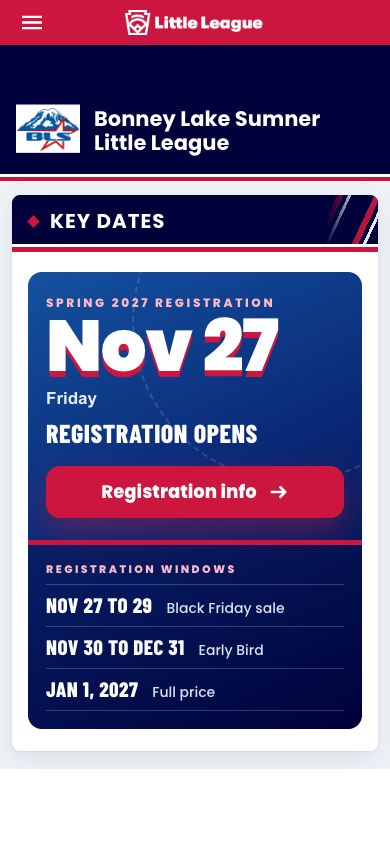
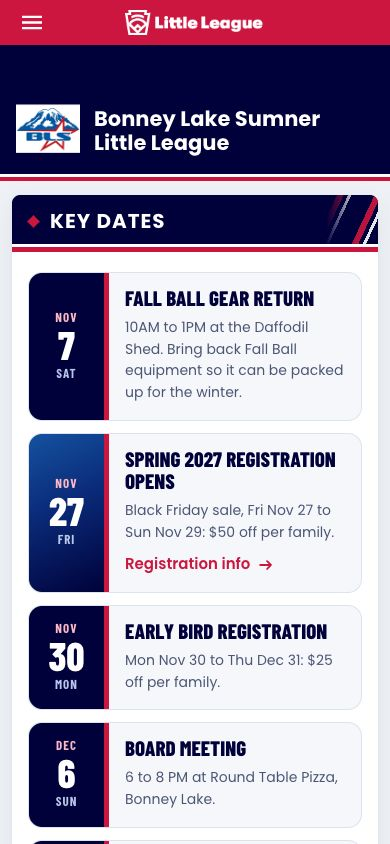
BLS preview: Calendar key dates restored (gear return, Nov 27, Early Bird, Dec 6 board meeting, Jan 1, season dates); the scrub had collapsed the page to one date
Generated with [Claude Code](https://claude.ai/code)
via [Happy](https://happy.engineering)

Claude-Session: https://claude.ai/code/session_018pH9PNFLS4TcMKKFXS6iHD

diff --git a/bls/preview/proposed/calendar.html b/bls/preview/proposed/calendar.html
@@ -994,62 +994,102 @@ window.addEventListener('OneTrustGroupsUpdated', handleGptAd);
 <h2 class="head">Key Dates</h2>
 <div class="content" id="dnn_ctr823340_ContentPane"><!-- Start_Module_823340 --><div class="DNNModuleContent ModDNNHTMLC" id="dnn_ctr823340_ModuleContent">
 <div class="Normal" id="dnn_ctr823340_HtmlModule_lblContent"><style>
-@import url('https://fonts.googleapis.com/css2?family=Barlow+Condensed:wght@600;700;800&family=Poppins:wght@400;500;600;700;800;900&display=swap');
+@import url('https://fonts.googleapis.com/css2?family=Barlow+Condensed:wght@600;700;800&family=Poppins:wght@400;500;600;700&display=swap');
 .blsx{font-family:Poppins,Arial,sans-serif !important;color:#00013a;font-size:16px;line-height:1.5;text-align:left !important;}
 .blsx *,.blsx *::before,.blsx *::after{box-sizing:border-box;}
-.blsx h2,.blsx h3,.blsx p,.blsx ol,.blsx li{margin:0 !important;padding:0;border:0;background:none;list-style:none;text-align:left !important;text-transform:none;letter-spacing:normal;box-shadow:none;}
+.blsx h3,.blsx p,.blsx ol,.blsx li{margin:0 !important;padding:0;border:0;background:none;list-style:none;text-align:left !important;text-transform:none;letter-spacing:normal;box-shadow:none;}
 .blsx a{text-decoration:none !important;}
 .blsx svg{display:block;}
 
-/* ---------- the one date that matters ---------- */
-.blsx .ku-hero{position:relative;overflow:hidden;isolation:isolate;display:grid;grid-template-columns:minmax(0,1.15fr) minmax(0,.85fr);gap:0;border-radius:18px;background:linear-gradient(155deg,#1452a0 0%,#0a2a78 45%,#00013a 100%);color:#fff;}
-.blsx .ku-hero::after{content:"";position:absolute;right:-90px;top:-110px;width:320px;height:320px;border-radius:50%;border:2px dashed rgba(255,255,255,.14);z-index:-1;}
-.blsx .ku-main{padding:34px 32px 32px 36px;}
-.blsx .ku-eyebrow{display:block;font-size:12px;font-weight:800;letter-spacing:.22em;text-transform:uppercase;color:#ffb8c6;}
-.blsx .ku-date{display:flex;flex-wrap:wrap;align-items:baseline;gap:4px 16px;margin-top:8px;}
-.blsx .ku-date b{font-family:Poppins,Arial,sans-serif;font-weight:900;font-size:clamp(60px,7.5vw,96px);line-height:.95;letter-spacing:-.02em;color:#fff;text-shadow:0 6px 0 #cd163f;white-space:nowrap;}
-.blsx .ku-date span{font-size:19px;font-weight:700;color:#e7ecff;}
-.blsx .ku-h{display:block;margin-top:6px;font-family:'Barlow Condensed','Arial Narrow',Arial,sans-serif;font-weight:800;font-size:30px;line-height:1;letter-spacing:.02em;text-transform:uppercase;color:#fff;}
-.blsx .ku-cta{display:flex;align-items:center;justify-content:center;gap:12px;width:100%;margin-top:24px;padding:17px 20px;border-radius:14px;background:#cd163f;color:#fff !important;font-weight:800;font-size:19px;line-height:1.1;text-align:center !important;box-shadow:0 14px 30px rgba(205,22,63,.38);transition:transform .15s,box-shadow .15s;}
-.blsx .ku-cta:hover{transform:translateY(-2px);box-shadow:0 18px 36px rgba(205,22,63,.45);}
-.blsx .ku-cta svg{width:20px;height:20px;flex:none;}
-.blsx .ku-side{align-self:stretch;display:flex;flex-direction:column;justify-content:center;padding:30px 32px 30px 28px;border-left:1px solid rgba(255,255,255,.18);background:rgba(0,1,58,.28);}
-.blsx .ku-side .k{font-size:11px;font-weight:800;letter-spacing:.22em;text-transform:uppercase;color:#ffb8c6;margin-bottom:6px !important;}
-.blsx .ku-win li{display:grid;grid-template-columns:auto minmax(0,1fr);align-items:baseline;column-gap:14px;padding:11px 0;border-top:1px solid rgba(255,255,255,.2);}
-.blsx .ku-win li:last-child{border-bottom:1px solid rgba(255,255,255,.2);}
-.blsx .ku-win b{font-family:'Barlow Condensed','Arial Narrow',Arial,sans-serif;font-weight:800;font-size:21px;line-height:1.05;letter-spacing:.02em;text-transform:uppercase;color:#fff;white-space:nowrap;}
-.blsx .ku-win span{font-size:14px;font-weight:500;line-height:1.3;color:#dbe2f4;}
+/* ---------- key dates ---------- */
+.blsx .ku-list{display:grid;grid-template-columns:repeat(3,minmax(0,1fr));gap:16px;}
+.blsx .ku-item{display:flex;flex-direction:column;background:#f5f7fb;border:1px solid #dde3ec;border-radius:14px;overflow:hidden;}
+.blsx .ku-date{display:flex;align-items:baseline;gap:10px;background:#00013a;color:#fff;padding:14px 18px 12px;border-bottom:5px solid #cd163f;}
+.blsx .ku-date i,.blsx .ku-date b{font-style:normal;font-family:'Barlow Condensed','Arial Narrow',Arial,sans-serif;font-weight:800;font-size:44px;line-height:.9;text-transform:uppercase;color:#fff;white-space:nowrap;}
+.blsx .ku-date span{font-family:'Barlow Condensed','Arial Narrow',Arial,sans-serif;font-weight:700;font-size:17px;letter-spacing:.12em;text-transform:uppercase;color:#b8c6ea;}
+.blsx .ku-hot .ku-date{background:linear-gradient(155deg,#1452a0 0%,#0a2a78 45%,#00013a 100%);}
+.blsx .ku-soon .ku-date{background:#eef2f6;border-bottom-color:#c3ccdc;}
+.blsx .ku-soon .ku-date i,.blsx .ku-soon .ku-date b{color:#00013a;}
+.blsx .ku-soon .ku-date span{color:#4b5675;}
+.blsx .ku-body{flex:1;display:flex;flex-direction:column;align-items:flex-start;padding:16px 18px 18px;}
+.blsx .ku-body h3{font-family:'Barlow Condensed','Arial Narrow',Arial,sans-serif !important;font-weight:800;font-size:24px;line-height:1.05;text-transform:uppercase;color:#00013a !important;margin-bottom:8px !important;}
+.blsx .ku-body p{font-size:15px;line-height:1.55;color:#4b5675;}
+.blsx .ku-link{margin-top:auto;padding-top:14px;display:inline-flex;align-items:center;gap:8px;font-weight:600;font-size:15px;color:#cd163f !important;}
+.blsx .ku-link svg{width:16px;height:16px;transition:transform .2s;}
+.blsx .ku-link:hover svg{transform:translateX(3px);}
+.blsx .ku-tip{margin-top:16px !important;display:flex;align-items:center;gap:10px;font-size:14px;line-height:1.45;color:#4b5675;}
+.blsx .ku-tip svg{flex:none;width:20px;height:20px;}
+.blsx .ku-tip b{color:#00013a;font-weight:600;}
 
-/* ---------- phone ---------- */
-@media (max-width:760px){
-  .blsx .ku-hero{grid-template-columns:minmax(0,1fr);border-radius:14px;}
-  .blsx .ku-main{padding:22px 18px 22px;}
-  .blsx .ku-date b{font-size:72px;}
-  .blsx .ku-date span{font-size:17px;}
-  .blsx .ku-h{font-size:26px;}
-  .blsx .ku-cta{margin-top:20px;padding:16px 16px;font-size:18px;}
-  .blsx .ku-side{padding:16px 18px 18px;border-left:0;border-top:5px solid #cd163f;}
-  .blsx .ku-win li{padding:9px 0;}
+/* ---------- tablet and phone: one date per row ---------- */
+@media (max-width:991px){
+  .blsx .ku-list{grid-template-columns:minmax(0,1fr);gap:12px;}
+  .blsx .ku-item{flex-direction:row;}
+  .blsx .ku-date{flex:none;width:96px;flex-direction:column;align-items:center;justify-content:center;gap:2px;padding:12px 6px;border-bottom:0;border-right:5px solid #cd163f;text-align:center !important;}
+  .blsx .ku-date i{font-size:15px;font-weight:700;letter-spacing:.12em;color:#ffb8c6;line-height:1.1;}
+  .blsx .ku-soon .ku-date i{color:#cd163f;}
+  .blsx .ku-soon .ku-date{border-right-color:#c3ccdc;}
+  .blsx .ku-date b{font-size:46px;}
+  .blsx .ku-date span{font-size:15px;}
+  .blsx .ku-body{padding:14px 16px 16px;}
+  .blsx .ku-body h3{font-size:21px;}
+  .blsx .ku-link{padding-top:10px;}
+}
+@media (max-width:420px){
+  .blsx .ku-date{width:80px;}
+  .blsx .ku-date b{font-size:40px;}
+  .blsx .ku-date i{font-size:13px;letter-spacing:.08em;}
+  .blsx .ku-date span{font-size:13px;letter-spacing:.08em;}
+  .blsx .ku-body p{font-size:14px;}
 }
 @media (prefers-reduced-motion:reduce){.blsx *{transition:none !important;}}
 </style>
 <div class="blsx">
-<section class="ku-hero">
-<div class="ku-main">
-<span class="ku-eyebrow">Spring 2027 registration</span>
-<h2 class="ku-date"><b>Nov 27</b><span>Friday</span></h2>
-<span class="ku-h">Registration opens</span>
-<a class="ku-cta" href="https://go.blslittleleague.org/bls/preview/proposed/registration.html">Registration info <svg aria-hidden="true" viewbox="0 0 16 16"><path d="M2 8h11M9 4l4 4-4 4" fill="none" stroke="currentColor" stroke-linecap="round" stroke-linejoin="round" stroke-width="2"></path></svg></a>
+<ol class="ku-list">
+<li class="ku-item">
+<div class="ku-date"><i>Nov</i><b>7</b><span>Sat</span></div>
+<div class="ku-body">
+<h3>Fall Ball gear return</h3>
+<p>10AM to 1PM at the Daffodil Shed. Bring back Fall Ball equipment so it can be packed up for the winter.</p>
 </div>
-<div class="ku-side">
-<p class="k">Registration windows</p>
-<ol class="ku-win">
-<li><b>Nov 27 to 29</b><span>Black Friday sale</span></li>
-<li><b>Nov 30 to Dec 31</b><span>Early Bird</span></li>
-<li><b>Jan 1, 2027</b><span>Full price</span></li>
+</li>
+<li class="ku-item ku-hot">
+<div class="ku-date"><i>Nov</i><b>27</b><span>Fri</span></div>
+<div class="ku-body">
+<h3>Spring 2027 registration opens</h3>
+<p>Black Friday sale, Fri Nov 27 to Sun Nov 29: $50 off per family.</p>
+<a class="ku-link" href="https://go.blslittleleague.org/bls/preview/proposed/registration.html">Registration info <svg aria-hidden="true" viewbox="0 0 16 16"><path d="M2 8h11M9 4l4 4-4 4" fill="none" stroke="currentColor" stroke-linecap="round" stroke-linejoin="round" stroke-width="2"></path></svg></a>
+</div>
+</li>
+<li class="ku-item">
+<div class="ku-date"><i>Nov</i><b>30</b><span>Mon</span></div>
+<div class="ku-body">
+<h3>Early Bird registration</h3>
+<p>Mon Nov 30 to Thu Dec 31: $25 off per family.</p>
+</div>
+</li>
+<li class="ku-item">
+<div class="ku-date"><i>Dec</i><b>6</b><span>Sun</span></div>
+<div class="ku-body">
+<h3>Board meeting</h3>
+<p>6 to 8 PM at Round Table Pizza, Bonney Lake.</p>
+</div>
+</li>
+<li class="ku-item">
+<div class="ku-date"><i>Jan</i><b>1</b><span>Fri</span></div>
+<div class="ku-body">
+<h3>Full price registration</h3>
+<p>Spring 2027 registration is full price from Jan 1, 2027.</p>
+</div>
+</li>
+<li class="ku-item ku-soon">
+<div class="ku-date"><i>Spring</i><b>2027</b></div>
+<div class="ku-body">
+<h3>Season dates</h3>
+<p>Posted here as the board sets them.</p>
+</div>
+</li>
 </ol>
-</div>
-</section>
 </div>
 </div>
 <script data-cfasync="false" src="/cdn-cgi/scripts/5c5dd728/cloudflare-static/email-decode.min.js"></script><script type="text/javascript">
@@ -1175,5 +1215,5 @@ $(window).load(function(){
        } 
    </script>
 <script src="//translate.google.com/translate_a/element.js?cb=googleTranslateElementInit" type="text/javascript"></script>
-<div id="blsPreviewBar" style="position:fixed;left:0;right:0;bottom:0;z-index:2147483647;background:#00013a;padding:8px 10px calc(8px + env(safe-area-inset-bottom,0px));box-shadow:0 -4px 16px rgba(0,0,0,.35);"><div class="blsb" id="blsbBar"></div><div id="blsSwitch" style="display:flex;gap:6px;max-width:560px;margin:0 auto 6px;"><a aria-label="Previous page: Board Members" href="https://go.blslittleleague.org/bls/preview/proposed/board.html" style="flex:0 0 auto;display:flex;align-items:center;padding:0 12px;border-radius:999px;font:700 14px/1 Arial,sans-serif;text-decoration:none;color:#fff;border:1px solid rgba(255,255,255,.35);white-space:nowrap;" title="Board Members">‹ Prev</a><a href="https://go.blslittleleague.org/bls/preview/today/calendar.html" style="background:#fff;color:#00013a;flex:1;text-align:center;padding:11px 6px;border-radius:999px;font:700 15px/1 Arial,sans-serif;text-decoration:none;">Today</a><a href="https://go.blslittleleague.org/bls/preview/proposed/calendar.html" style="background:#cd163f;color:#fff;flex:1;text-align:center;padding:11px 6px;border-radius:999px;font:700 15px/1 Arial,sans-serif;text-decoration:none;">Proposed</a><a aria-label="Next page: Champions" href="https://go.blslittleleague.org/bls/preview/proposed/champions.html" style="flex:0 0 auto;display:flex;align-items:center;padding:0 12px;border-radius:999px;font:700 14px/1 Arial,sans-serif;text-decoration:none;color:#fff;border:1px solid rgba(255,255,255,.35);white-space:nowrap;" title="Champions">Next ›</a></div><div id="blsPreviewInfo" style="text-align:center;color:#c9d3f2;font:600 12px/1.3 Arial,sans-serif;">PREVIEW · Calendar · <a href="https://go.blslittleleague.org/bls/preview/#p-calendar" style="color:#fff;">All pages</a></div><div id="blsNeeds" style="text-align:center;color:#9be3b5;font:700 12px/1.6 Arial,sans-serif;">All facts in</div></div><div id="blsPreviewSpacer" style="height:96px"></div><script>window.BLSB={"base": "https://go.blslittleleague.org/bls/preview", "page": "calendar", "variant": "proposed", "index": false, "pages": {"home": {"t": "Home", "req": ["Daniel (Website) or Melissa (Information Officer), in Sports Connect: take down the site-wide announcement bar (gear return, Daffodil Shed, the first thing on every page) or set it to 'Spring 2027 registration opens Fri Nov 27'; pin the registration story first in Local News; move the 'Meet the 2026-27 BLS Board' and 'Join the Fields Committee for 2027' posts off the home feed. Site settings and news posts, not content blocks, so the preview still shows them."]}, "registration": {"t": "Registration Info", "req": ["Daniel: put the League Age page live first. The card's 'Check your league age' row and the Baseball and Softball tiles link to it."]}, "volunteer": {"t": "Volunteer Opportunities", "req": ["Daniel: finish the Spring 2027 registration setup and move volunteer sign-up onto this page. It's running today, just not shown here.", "Daniel: put the Umpires page live first. The Umpire tile links to it."]}, "corpmatch": {"t": "Corporate Match", "req": []}, "sponsorship": {"t": "Sponsorship Opportunities", "req": ["Info needed (Ashley Gauthier): the 2027 sponsor prices. The page shows 2026 prices."]}, "allstars": {"t": "Allstars", "req": ["Daniel: put the Champions page live first. The 2025 card on this page links to it."]}, "fallball": {"t": "Fall Ball", "req": []}, "coaches": {"t": "Coaches Corner", "req": ["Daniel: put the Coach Run Book page live first. The hero clipboard, the pitch count row and the Get cleared card link to it."]}, "faq": {"t": "FAQ", "req": ["Daniel: put the League Age page live first. Answer 2's button links to it.", "Daniel: put the Fields page live first. Answer 7's button links to it."]}, "health": {"t": "Health & Safety", "req": []}, "board": {"t": "Board Members", "req": []}, "calendar": {"t": "Calendar", "req": []}, "champions": {"t": "Champions", "req": []}, "fields": {"t": "Fields", "req": []}, "umpires": {"t": "Umpires", "req": []}, "runbook": {"t": "Coach Run Book", "req": ["Daniel: turn on spring 2027 coach and volunteer sign-up, with the Secretary or Information Officer.", "Daniel: put the Fields page live on blslittleleague.org first.", "Daniel: put the League Age page live first. The roster step links to it.", "Info needed (Dena Berkey): the 2027 uniform sizing steps by division."]}, "schedules": {"t": "Schedules & Scores", "req": ["Daniel: create one GameChanger league per division.", "Daniel: test that a league link opens without a GameChanger account."]}, "leagueage": {"t": "League Age", "req": ["Daniel (Website), in Sports Connect: edit menu page 1270154 (Registration > Age Charts) so it links to this League Age page and rename it League Age; change the footer quick link League Age Calculator to the same page. Both send parents to littleleague.org from every page today, the hop that lost Coach's wife.", "Daniel (Website), same pass in Sports Connect: menu page 1270164 Challenger Division (littleleague.org) to this page's Challenger box or the Registration page; 776461 Approved Bats (littleleague.org) to the FAQ once the bat rule is in answer 3; the five Health menu PDFs 776463, 776474, 776475, 776476 and 776477 (clubs.bluesombrero.com) to the /portals/50558/ paths the Health page uses."]}}};</script><script defer="" src="https://go.blslittleleague.org/bls/preview/board/board.js?v=0676cf4a4f"></script></body>
+<div id="blsPreviewBar" style="position:fixed;left:0;right:0;bottom:0;z-index:2147483647;background:#00013a;padding:8px 10px calc(8px + env(safe-area-inset-bottom,0px));box-shadow:0 -4px 16px rgba(0,0,0,.35);"><div class="blsb" id="blsbBar"></div><div id="blsSwitch" style="display:flex;gap:6px;max-width:560px;margin:0 auto 6px;"><a aria-label="Previous page: Board Members" href="https://go.blslittleleague.org/bls/preview/proposed/board.html" style="flex:0 0 auto;display:flex;align-items:center;padding:0 12px;border-radius:999px;font:700 14px/1 Arial,sans-serif;text-decoration:none;color:#fff;border:1px solid rgba(255,255,255,.35);white-space:nowrap;" title="Board Members">‹ Prev</a><a href="https://go.blslittleleague.org/bls/preview/today/calendar.html" style="background:#fff;color:#00013a;flex:1;text-align:center;padding:11px 6px;border-radius:999px;font:700 15px/1 Arial,sans-serif;text-decoration:none;">Today</a><a href="https://go.blslittleleague.org/bls/preview/proposed/calendar.html" style="background:#cd163f;color:#fff;flex:1;text-align:center;padding:11px 6px;border-radius:999px;font:700 15px/1 Arial,sans-serif;text-decoration:none;">Proposed</a><a aria-label="Next page: Champions" href="https://go.blslittleleague.org/bls/preview/proposed/champions.html" style="flex:0 0 auto;display:flex;align-items:center;padding:0 12px;border-radius:999px;font:700 14px/1 Arial,sans-serif;text-decoration:none;color:#fff;border:1px solid rgba(255,255,255,.35);white-space:nowrap;" title="Champions">Next ›</a></div><div id="blsPreviewInfo" style="text-align:center;color:#c9d3f2;font:600 12px/1.3 Arial,sans-serif;">PREVIEW · Calendar · <a href="https://go.blslittleleague.org/bls/preview/#p-calendar" style="color:#fff;">All pages</a></div><div id="blsNeeds" style="text-align:center;color:#9be3b5;font:700 12px/1.6 Arial,sans-serif;">All facts in</div></div><div id="blsPreviewSpacer" style="height:96px"></div><script>window.BLSB={"base": "https://go.blslittleleague.org/bls/preview", "page": "calendar", "variant": "proposed", "index": false, "pages": {"home": {"t": "Home", "req": ["Daniel: confirm a content block can be added above the home slideshow (Sports Connect home template).", "Daniel: after Saturday, take down the gear return bar and pin the registration post first in Local News."]}, "registration": {"t": "Registration Info", "req": ["Daniel: put the League Age page live first. The card's 'Check your league age' row and the Baseball and Softball tiles link to it.", "Daniel: confirm the 2027 division names and prices with the VPs before launch. The page mirrors Spring 2026 until then."]}, "volunteer": {"t": "Volunteer Opportunities", "req": ["Daniel: finish the Spring 2027 registration setup and move volunteer sign-up onto this page. It's running today, just not shown here.", "Daniel: put the Umpires page live first. The Umpire tile links to it."]}, "corpmatch": {"t": "Corporate Match", "req": []}, "sponsorship": {"t": "Sponsorship Opportunities", "req": ["Info needed (Ashley Gauthier): the 2027 sponsor prices. The page shows 2026 prices."]}, "allstars": {"t": "Allstars", "req": ["Daniel: put the Champions page live first. The 2025 card on this page links to it."]}, "fallball": {"t": "Fall Ball", "req": []}, "coaches": {"t": "Coaches Corner", "req": ["Daniel: put the Coach Run Book page live first. The hero clipboard, the pitch count row and the Get cleared card link to it."]}, "faq": {"t": "FAQ", "req": ["Daniel: put the League Age page live first. Answer 2's button links to it.", "Daniel: put the Fields page live first. Answer 7's button links to it."]}, "health": {"t": "Health & Safety", "req": []}, "board": {"t": "Board Members", "req": []}, "calendar": {"t": "Calendar", "req": []}, "champions": {"t": "Champions", "req": []}, "fields": {"t": "Fields", "req": []}, "umpires": {"t": "Umpires", "req": []}, "runbook": {"t": "Coach Run Book", "req": ["Daniel: turn on spring 2027 coach and volunteer sign-up, with the Secretary or Information Officer.", "Daniel: put the Fields page live on blslittleleague.org first.", "Daniel: put the League Age page live first. The roster step links to it.", "Info needed (Dena Berkey): the 2027 uniform sizing steps by division."]}, "schedules": {"t": "Schedules & Scores", "req": ["Daniel: create one GameChanger league per division.", "Daniel: test that a league link opens without a GameChanger account."]}, "leagueage": {"t": "League Age", "req": ["Daniel: point the Age Charts menu link and the footer League Age Calculator link to this page.", "Daniel: point the Challenger, Approved Bats and Health menu links to our own pages.", "Info needed (Luke Kress): which league ages play softball AA, so the softball table can show it. AA ran in 2026 (Sports Connect schedules) but the age chart only names Minors B and Minors A."]}}};</script><script defer="" src="https://go.blslittleleague.org/bls/preview/board/board.js?v=0676cf4a4f"></script></body>
 </html>

diff --git a/bls/preview/today/calendar.html b/bls/preview/today/calendar.html
@@ -1095,5 +1095,5 @@ $(window).load(function(){
        } 
    </script>
 <script src="//translate.google.com/translate_a/element.js?cb=googleTranslateElementInit" type="text/javascript"></script>
-<div id="blsPreviewBar" style="position:fixed;left:0;right:0;bottom:0;z-index:2147483647;background:#00013a;padding:8px 10px calc(8px + env(safe-area-inset-bottom,0px));box-shadow:0 -4px 16px rgba(0,0,0,.35);"><div class="blsb" id="blsbBar"></div><div id="blsSwitch" style="display:flex;gap:6px;max-width:560px;margin:0 auto 6px;"><a aria-label="Previous page: Board Members" href="https://go.blslittleleague.org/bls/preview/today/board.html" style="flex:0 0 auto;display:flex;align-items:center;padding:0 12px;border-radius:999px;font:700 14px/1 Arial,sans-serif;text-decoration:none;color:#fff;border:1px solid rgba(255,255,255,.35);white-space:nowrap;" title="Board Members">‹ Prev</a><a href="https://go.blslittleleague.org/bls/preview/today/calendar.html" style="background:#cd163f;color:#fff;flex:1;text-align:center;padding:11px 6px;border-radius:999px;font:700 15px/1 Arial,sans-serif;text-decoration:none;">Today</a><a href="https://go.blslittleleague.org/bls/preview/proposed/calendar.html" style="background:#fff;color:#00013a;flex:1;text-align:center;padding:11px 6px;border-radius:999px;font:700 15px/1 Arial,sans-serif;text-decoration:none;">Proposed</a><a aria-label="Next page: Champions" href="https://go.blslittleleague.org/bls/preview/today/champions.html" style="flex:0 0 auto;display:flex;align-items:center;padding:0 12px;border-radius:999px;font:700 14px/1 Arial,sans-serif;text-decoration:none;color:#fff;border:1px solid rgba(255,255,255,.35);white-space:nowrap;" title="Champions">Next ›</a></div><div id="blsPreviewInfo" style="text-align:center;color:#c9d3f2;font:600 12px/1.3 Arial,sans-serif;">PREVIEW · Calendar · <a href="https://go.blslittleleague.org/bls/preview/#p-calendar" style="color:#fff;">All pages</a></div><div id="blsNeeds" style="text-align:center;color:#9be3b5;font:700 12px/1.6 Arial,sans-serif;">All facts in</div></div><div id="blsPreviewSpacer" style="height:96px"></div><script>window.BLSB={"base": "https://go.blslittleleague.org/bls/preview", "page": "calendar", "variant": "today", "index": false, "pages": {"home": {"t": "Home", "req": ["Daniel (Website) or Melissa (Information Officer), in Sports Connect: take down the site-wide announcement bar (gear return, Daffodil Shed, the first thing on every page) or set it to 'Spring 2027 registration opens Fri Nov 27'; pin the registration story first in Local News; move the 'Meet the 2026-27 BLS Board' and 'Join the Fields Committee for 2027' posts off the home feed. Site settings and news posts, not content blocks, so the preview still shows them."]}, "registration": {"t": "Registration Info", "req": ["Daniel: put the League Age page live first. The card's 'Check your league age' row and the Baseball and Softball tiles link to it."]}, "volunteer": {"t": "Volunteer Opportunities", "req": ["Daniel: finish the Spring 2027 registration setup and move volunteer sign-up onto this page. It's running today, just not shown here.", "Daniel: put the Umpires page live first. The Umpire tile links to it."]}, "corpmatch": {"t": "Corporate Match", "req": []}, "sponsorship": {"t": "Sponsorship Opportunities", "req": ["Info needed (Ashley Gauthier): the 2027 sponsor prices. The page shows 2026 prices."]}, "allstars": {"t": "Allstars", "req": ["Daniel: put the Champions page live first. The 2025 card on this page links to it."]}, "fallball": {"t": "Fall Ball", "req": []}, "coaches": {"t": "Coaches Corner", "req": ["Daniel: put the Coach Run Book page live first. The hero clipboard, the pitch count row and the Get cleared card link to it."]}, "faq": {"t": "FAQ", "req": ["Daniel: put the League Age page live first. Answer 2's button links to it.", "Daniel: put the Fields page live first. Answer 7's button links to it."]}, "health": {"t": "Health & Safety", "req": []}, "board": {"t": "Board Members", "req": []}, "calendar": {"t": "Calendar", "req": []}, "champions": {"t": "Champions", "req": []}, "fields": {"t": "Fields", "req": []}, "umpires": {"t": "Umpires", "req": []}, "runbook": {"t": "Coach Run Book", "req": ["Daniel: turn on spring 2027 coach and volunteer sign-up, with the Secretary or Information Officer.", "Daniel: put the Fields page live on blslittleleague.org first.", "Daniel: put the League Age page live first. The roster step links to it.", "Info needed (Dena Berkey): the 2027 uniform sizing steps by division."]}, "schedules": {"t": "Schedules & Scores", "req": ["Daniel: create one GameChanger league per division.", "Daniel: test that a league link opens without a GameChanger account."]}, "leagueage": {"t": "League Age", "req": ["Daniel (Website), in Sports Connect: edit menu page 1270154 (Registration > Age Charts) so it links to this League Age page and rename it League Age; change the footer quick link League Age Calculator to the same page. Both send parents to littleleague.org from every page today, the hop that lost Coach's wife.", "Daniel (Website), same pass in Sports Connect: menu page 1270164 Challenger Division (littleleague.org) to this page's Challenger box or the Registration page; 776461 Approved Bats (littleleague.org) to the FAQ once the bat rule is in answer 3; the five Health menu PDFs 776463, 776474, 776475, 776476 and 776477 (clubs.bluesombrero.com) to the /portals/50558/ paths the Health page uses."]}}};</script><script defer="" src="https://go.blslittleleague.org/bls/preview/board/board.js?v=0676cf4a4f"></script></body>
+<div id="blsPreviewBar" style="position:fixed;left:0;right:0;bottom:0;z-index:2147483647;background:#00013a;padding:8px 10px calc(8px + env(safe-area-inset-bottom,0px));box-shadow:0 -4px 16px rgba(0,0,0,.35);"><div class="blsb" id="blsbBar"></div><div id="blsSwitch" style="display:flex;gap:6px;max-width:560px;margin:0 auto 6px;"><a aria-label="Previous page: Board Members" href="https://go.blslittleleague.org/bls/preview/today/board.html" style="flex:0 0 auto;display:flex;align-items:center;padding:0 12px;border-radius:999px;font:700 14px/1 Arial,sans-serif;text-decoration:none;color:#fff;border:1px solid rgba(255,255,255,.35);white-space:nowrap;" title="Board Members">‹ Prev</a><a href="https://go.blslittleleague.org/bls/preview/today/calendar.html" style="background:#cd163f;color:#fff;flex:1;text-align:center;padding:11px 6px;border-radius:999px;font:700 15px/1 Arial,sans-serif;text-decoration:none;">Today</a><a href="https://go.blslittleleague.org/bls/preview/proposed/calendar.html" style="background:#fff;color:#00013a;flex:1;text-align:center;padding:11px 6px;border-radius:999px;font:700 15px/1 Arial,sans-serif;text-decoration:none;">Proposed</a><a aria-label="Next page: Champions" href="https://go.blslittleleague.org/bls/preview/today/champions.html" style="flex:0 0 auto;display:flex;align-items:center;padding:0 12px;border-radius:999px;font:700 14px/1 Arial,sans-serif;text-decoration:none;color:#fff;border:1px solid rgba(255,255,255,.35);white-space:nowrap;" title="Champions">Next ›</a></div><div id="blsPreviewInfo" style="text-align:center;color:#c9d3f2;font:600 12px/1.3 Arial,sans-serif;">PREVIEW · Calendar · <a href="https://go.blslittleleague.org/bls/preview/#p-calendar" style="color:#fff;">All pages</a></div><div id="blsNeeds" style="text-align:center;color:#9be3b5;font:700 12px/1.6 Arial,sans-serif;">All facts in</div></div><div id="blsPreviewSpacer" style="height:96px"></div><script>window.BLSB={"base": "https://go.blslittleleague.org/bls/preview", "page": "calendar", "variant": "today", "index": false, "pages": {"home": {"t": "Home", "req": ["Daniel: confirm a content block can be added above the home slideshow (Sports Connect home template).", "Daniel: after Saturday, take down the gear return bar and pin the registration post first in Local News."]}, "registration": {"t": "Registration Info", "req": ["Daniel: put the League Age page live first. The card's 'Check your league age' row and the Baseball and Softball tiles link to it.", "Daniel: confirm the 2027 division names and prices with the VPs before launch. The page mirrors Spring 2026 until then."]}, "volunteer": {"t": "Volunteer Opportunities", "req": ["Daniel: finish the Spring 2027 registration setup and move volunteer sign-up onto this page. It's running today, just not shown here.", "Daniel: put the Umpires page live first. The Umpire tile links to it."]}, "corpmatch": {"t": "Corporate Match", "req": []}, "sponsorship": {"t": "Sponsorship Opportunities", "req": ["Info needed (Ashley Gauthier): the 2027 sponsor prices. The page shows 2026 prices."]}, "allstars": {"t": "Allstars", "req": ["Daniel: put the Champions page live first. The 2025 card on this page links to it."]}, "fallball": {"t": "Fall Ball", "req": []}, "coaches": {"t": "Coaches Corner", "req": ["Daniel: put the Coach Run Book page live first. The hero clipboard, the pitch count row and the Get cleared card link to it."]}, "faq": {"t": "FAQ", "req": ["Daniel: put the League Age page live first. Answer 2's button links to it.", "Daniel: put the Fields page live first. Answer 7's button links to it."]}, "health": {"t": "Health & Safety", "req": []}, "board": {"t": "Board Members", "req": []}, "calendar": {"t": "Calendar", "req": []}, "champions": {"t": "Champions", "req": []}, "fields": {"t": "Fields", "req": []}, "umpires": {"t": "Umpires", "req": []}, "runbook": {"t": "Coach Run Book", "req": ["Daniel: turn on spring 2027 coach and volunteer sign-up, with the Secretary or Information Officer.", "Daniel: put the Fields page live on blslittleleague.org first.", "Daniel: put the League Age page live first. The roster step links to it.", "Info needed (Dena Berkey): the 2027 uniform sizing steps by division."]}, "schedules": {"t": "Schedules & Scores", "req": ["Daniel: create one GameChanger league per division.", "Daniel: test that a league link opens without a GameChanger account."]}, "leagueage": {"t": "League Age", "req": ["Daniel: point the Age Charts menu link and the footer League Age Calculator link to this page.", "Daniel: point the Challenger, Approved Bats and Health menu links to our own pages.", "Info needed (Luke Kress): which league ages play softball AA, so the softball table can show it. AA ran in 2026 (Sports Connect schedules) but the age chart only names Minors B and Minors A."]}}};</script><script defer="" src="https://go.blslittleleague.org/bls/preview/board/board.js?v=0676cf4a4f"></script></body>
 </html>

diff --git a/bls/preview/modules/calendar.html b/bls/preview/modules/calendar.html
@@ -1,58 +1,98 @@
 <style>
-@import url('https://fonts.googleapis.com/css2?family=Barlow+Condensed:wght@600;700;800&family=Poppins:wght@400;500;600;700;800;900&display=swap');
+@import url('https://fonts.googleapis.com/css2?family=Barlow+Condensed:wght@600;700;800&family=Poppins:wght@400;500;600;700&display=swap');
 .blsx{font-family:Poppins,Arial,sans-serif !important;color:#00013a;font-size:16px;line-height:1.5;text-align:left !important;}
 .blsx *,.blsx *::before,.blsx *::after{box-sizing:border-box;}
-.blsx h2,.blsx h3,.blsx p,.blsx ol,.blsx li{margin:0 !important;padding:0;border:0;background:none;list-style:none;text-align:left !important;text-transform:none;letter-spacing:normal;box-shadow:none;}
+.blsx h3,.blsx p,.blsx ol,.blsx li{margin:0 !important;padding:0;border:0;background:none;list-style:none;text-align:left !important;text-transform:none;letter-spacing:normal;box-shadow:none;}
 .blsx a{text-decoration:none !important;}
 .blsx svg{display:block;}
 
-/* ---------- the one date that matters ---------- */
-.blsx .ku-hero{position:relative;overflow:hidden;isolation:isolate;display:grid;grid-template-columns:minmax(0,1.15fr) minmax(0,.85fr);gap:0;border-radius:18px;background:linear-gradient(155deg,#1452a0 0%,#0a2a78 45%,#00013a 100%);color:#fff;}
-.blsx .ku-hero::after{content:"";position:absolute;right:-90px;top:-110px;width:320px;height:320px;border-radius:50%;border:2px dashed rgba(255,255,255,.14);z-index:-1;}
-.blsx .ku-main{padding:34px 32px 32px 36px;}
-.blsx .ku-eyebrow{display:block;font-size:12px;font-weight:800;letter-spacing:.22em;text-transform:uppercase;color:#ffb8c6;}
-.blsx .ku-date{display:flex;flex-wrap:wrap;align-items:baseline;gap:4px 16px;margin-top:8px;}
-.blsx .ku-date b{font-family:Poppins,Arial,sans-serif;font-weight:900;font-size:clamp(60px,7.5vw,96px);line-height:.95;letter-spacing:-.02em;color:#fff;text-shadow:0 6px 0 #cd163f;white-space:nowrap;}
-.blsx .ku-date span{font-size:19px;font-weight:700;color:#e7ecff;}
-.blsx .ku-h{display:block;margin-top:6px;font-family:'Barlow Condensed','Arial Narrow',Arial,sans-serif;font-weight:800;font-size:30px;line-height:1;letter-spacing:.02em;text-transform:uppercase;color:#fff;}
-.blsx .ku-cta{display:flex;align-items:center;justify-content:center;gap:12px;width:100%;margin-top:24px;padding:17px 20px;border-radius:14px;background:#cd163f;color:#fff !important;font-weight:800;font-size:19px;line-height:1.1;text-align:center !important;box-shadow:0 14px 30px rgba(205,22,63,.38);transition:transform .15s,box-shadow .15s;}
-.blsx .ku-cta:hover{transform:translateY(-2px);box-shadow:0 18px 36px rgba(205,22,63,.45);}
-.blsx .ku-cta svg{width:20px;height:20px;flex:none;}
-.blsx .ku-side{align-self:stretch;display:flex;flex-direction:column;justify-content:center;padding:30px 32px 30px 28px;border-left:1px solid rgba(255,255,255,.18);background:rgba(0,1,58,.28);}
-.blsx .ku-side .k{font-size:11px;font-weight:800;letter-spacing:.22em;text-transform:uppercase;color:#ffb8c6;margin-bottom:6px !important;}
-.blsx .ku-win li{display:grid;grid-template-columns:auto minmax(0,1fr);align-items:baseline;column-gap:14px;padding:11px 0;border-top:1px solid rgba(255,255,255,.2);}
-.blsx .ku-win li:last-child{border-bottom:1px solid rgba(255,255,255,.2);}
-.blsx .ku-win b{font-family:'Barlow Condensed','Arial Narrow',Arial,sans-serif;font-weight:800;font-size:21px;line-height:1.05;letter-spacing:.02em;text-transform:uppercase;color:#fff;white-space:nowrap;}
-.blsx .ku-win span{font-size:14px;font-weight:500;line-height:1.3;color:#dbe2f4;}
+/* ---------- key dates ---------- */
+.blsx .ku-list{display:grid;grid-template-columns:repeat(3,minmax(0,1fr));gap:16px;}
+.blsx .ku-item{display:flex;flex-direction:column;background:#f5f7fb;border:1px solid #dde3ec;border-radius:14px;overflow:hidden;}
+.blsx .ku-date{display:flex;align-items:baseline;gap:10px;background:#00013a;color:#fff;padding:14px 18px 12px;border-bottom:5px solid #cd163f;}
+.blsx .ku-date i,.blsx .ku-date b{font-style:normal;font-family:'Barlow Condensed','Arial Narrow',Arial,sans-serif;font-weight:800;font-size:44px;line-height:.9;text-transform:uppercase;color:#fff;white-space:nowrap;}
+.blsx .ku-date span{font-family:'Barlow Condensed','Arial Narrow',Arial,sans-serif;font-weight:700;font-size:17px;letter-spacing:.12em;text-transform:uppercase;color:#b8c6ea;}
+.blsx .ku-hot .ku-date{background:linear-gradient(155deg,#1452a0 0%,#0a2a78 45%,#00013a 100%);}
+.blsx .ku-soon .ku-date{background:#eef2f6;border-bottom-color:#c3ccdc;}
+.blsx .ku-soon .ku-date i,.blsx .ku-soon .ku-date b{color:#00013a;}
+.blsx .ku-soon .ku-date span{color:#4b5675;}
+.blsx .ku-body{flex:1;display:flex;flex-direction:column;align-items:flex-start;padding:16px 18px 18px;}
+.blsx .ku-body h3{font-family:'Barlow Condensed','Arial Narrow',Arial,sans-serif !important;font-weight:800;font-size:24px;line-height:1.05;text-transform:uppercase;color:#00013a !important;margin-bottom:8px !important;}
+.blsx .ku-body p{font-size:15px;line-height:1.55;color:#4b5675;}
+.blsx .ku-link{margin-top:auto;padding-top:14px;display:inline-flex;align-items:center;gap:8px;font-weight:600;font-size:15px;color:#cd163f !important;}
+.blsx .ku-link svg{width:16px;height:16px;transition:transform .2s;}
+.blsx .ku-link:hover svg{transform:translateX(3px);}
+.blsx .ku-tip{margin-top:16px !important;display:flex;align-items:center;gap:10px;font-size:14px;line-height:1.45;color:#4b5675;}
+.blsx .ku-tip svg{flex:none;width:20px;height:20px;}
+.blsx .ku-tip b{color:#00013a;font-weight:600;}
 
-/* ---------- phone ---------- */
-@media (max-width:760px){
-  .blsx .ku-hero{grid-template-columns:minmax(0,1fr);border-radius:14px;}
-  .blsx .ku-main{padding:22px 18px 22px;}
-  .blsx .ku-date b{font-size:72px;}
-  .blsx .ku-date span{font-size:17px;}
-  .blsx .ku-h{font-size:26px;}
-  .blsx .ku-cta{margin-top:20px;padding:16px 16px;font-size:18px;}
-  .blsx .ku-side{padding:16px 18px 18px;border-left:0;border-top:5px solid #cd163f;}
-  .blsx .ku-win li{padding:9px 0;}
+/* ---------- tablet and phone: one date per row ---------- */
+@media (max-width:991px){
+  .blsx .ku-list{grid-template-columns:minmax(0,1fr);gap:12px;}
+  .blsx .ku-item{flex-direction:row;}
+  .blsx .ku-date{flex:none;width:96px;flex-direction:column;align-items:center;justify-content:center;gap:2px;padding:12px 6px;border-bottom:0;border-right:5px solid #cd163f;text-align:center !important;}
+  .blsx .ku-date i{font-size:15px;font-weight:700;letter-spacing:.12em;color:#ffb8c6;line-height:1.1;}
+  .blsx .ku-soon .ku-date i{color:#cd163f;}
+  .blsx .ku-soon .ku-date{border-right-color:#c3ccdc;}
+  .blsx .ku-date b{font-size:46px;}
+  .blsx .ku-date span{font-size:15px;}
+  .blsx .ku-body{padding:14px 16px 16px;}
+  .blsx .ku-body h3{font-size:21px;}
+  .blsx .ku-link{padding-top:10px;}
+}
+@media (max-width:420px){
+  .blsx .ku-date{width:80px;}
+  .blsx .ku-date b{font-size:40px;}
+  .blsx .ku-date i{font-size:13px;letter-spacing:.08em;}
+  .blsx .ku-date span{font-size:13px;letter-spacing:.08em;}
+  .blsx .ku-body p{font-size:14px;}
 }
 @media (prefers-reduced-motion:reduce){.blsx *{transition:none !important;}}
 </style>
 <div class="blsx">
-  <section class="ku-hero">
-    <div class="ku-main">
-      <span class="ku-eyebrow">Spring 2027 registration</span>
-      <h2 class="ku-date"><b>Nov 27</b><span>Friday</span></h2>
-      <span class="ku-h">Registration opens</span>
-      <a class="ku-cta" href="https://www.blslittleleague.org/Default.aspx?tabid=716841">Registration info <svg viewBox="0 0 16 16" aria-hidden="true"><path d="M2 8h11M9 4l4 4-4 4" fill="none" stroke="currentColor" stroke-width="2" stroke-linecap="round" stroke-linejoin="round"/></svg></a>
-    </div>
-    <div class="ku-side">
-      <p class="k">Registration windows</p>
-      <ol class="ku-win">
-        <li><b>Nov 27 to 29</b><span>Black Friday sale</span></li>
-        <li><b>Nov 30 to Dec 31</b><span>Early Bird</span></li>
-        <li><b>Jan 1, 2027</b><span>Full price</span></li>
-      </ol>
-    </div>
-  </section>
+  <ol class="ku-list">
+    <li class="ku-item">
+      <div class="ku-date"><i>Nov</i><b>7</b><span>Sat</span></div>
+      <div class="ku-body">
+        <h3>Fall Ball gear return</h3>
+        <p>10AM to 1PM at the Daffodil Shed. Bring back Fall Ball equipment so it can be packed up for the winter.</p>
+      </div>
+    </li>
+    <li class="ku-item ku-hot">
+      <div class="ku-date"><i>Nov</i><b>27</b><span>Fri</span></div>
+      <div class="ku-body">
+        <h3>Spring 2027 registration opens</h3>
+        <p>Black Friday sale, Fri Nov 27 to Sun Nov 29: $50 off per family.</p>
+        <a class="ku-link" href="https://www.blslittleleague.org/Default.aspx?tabid=716841">Registration info <svg viewBox="0 0 16 16" aria-hidden="true"><path d="M2 8h11M9 4l4 4-4 4" fill="none" stroke="currentColor" stroke-width="2" stroke-linecap="round" stroke-linejoin="round"/></svg></a>
+      </div>
+    </li>
+    <li class="ku-item">
+      <div class="ku-date"><i>Nov</i><b>30</b><span>Mon</span></div>
+      <div class="ku-body">
+        <h3>Early Bird registration</h3>
+        <p>Mon Nov 30 to Thu Dec 31: $25 off per family.</p>
+      </div>
+    </li>
+    <li class="ku-item">
+      <div class="ku-date"><i>Dec</i><b>6</b><span>Sun</span></div>
+      <div class="ku-body">
+        <h3>Board meeting</h3>
+        <p>6 to 8 PM at Round Table Pizza, Bonney Lake.</p>
+      </div>
+    </li>
+    <li class="ku-item">
+      <div class="ku-date"><i>Jan</i><b>1</b><span>Fri</span></div>
+      <div class="ku-body">
+        <h3>Full price registration</h3>
+        <p>Spring 2027 registration is full price from Jan 1, 2027.</p>
+      </div>
+    </li>
+    <li class="ku-item ku-soon">
+      <div class="ku-date"><i>Spring</i><b>2027</b></div>
+      <div class="ku-body">
+        <h3>Season dates</h3>
+        <p>Posted here as the board sets them.</p>
+      </div>
+    </li>
+  </ol>
 </div>
